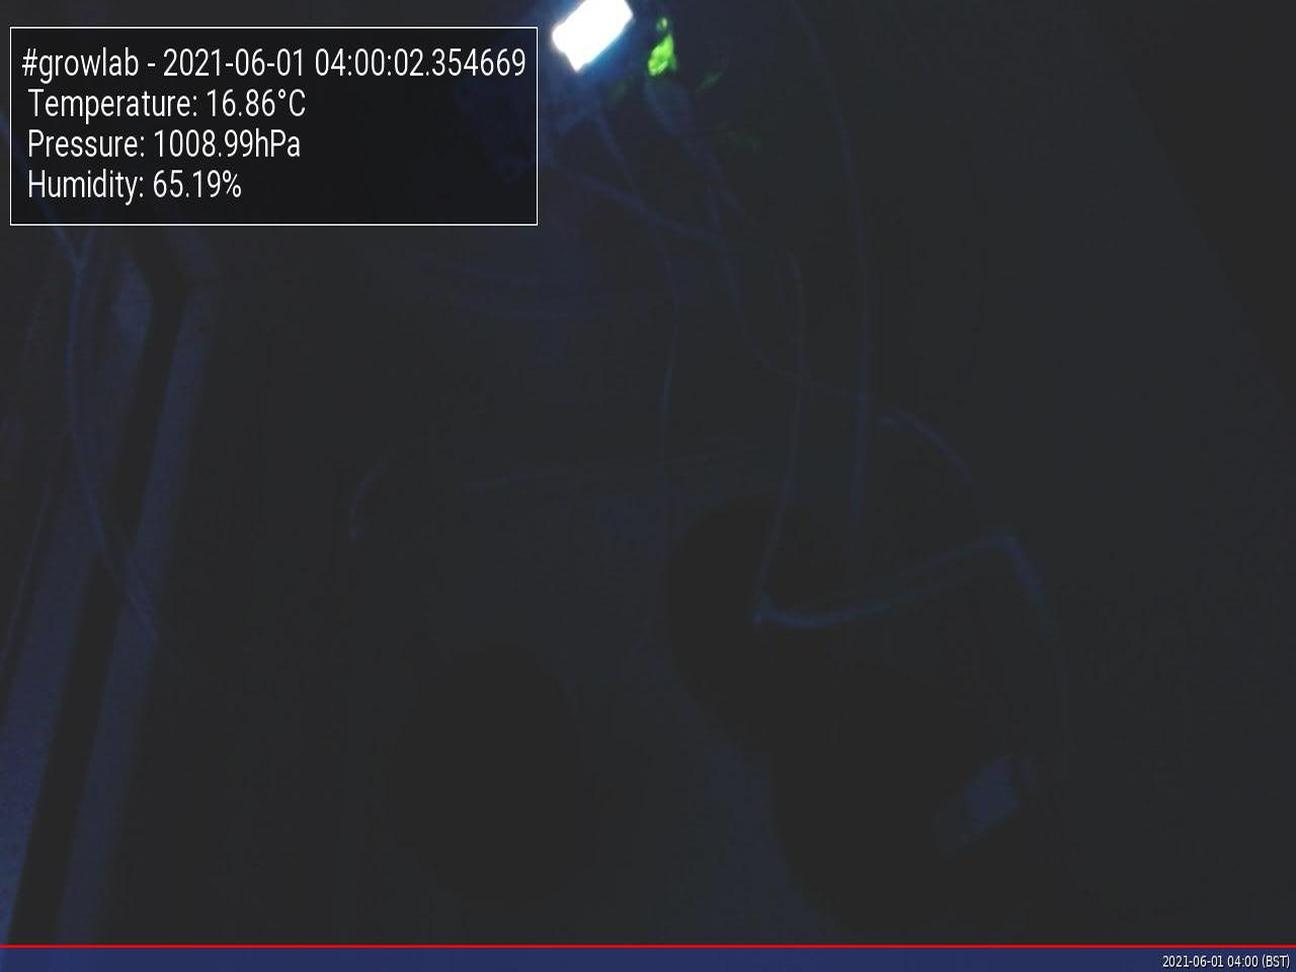
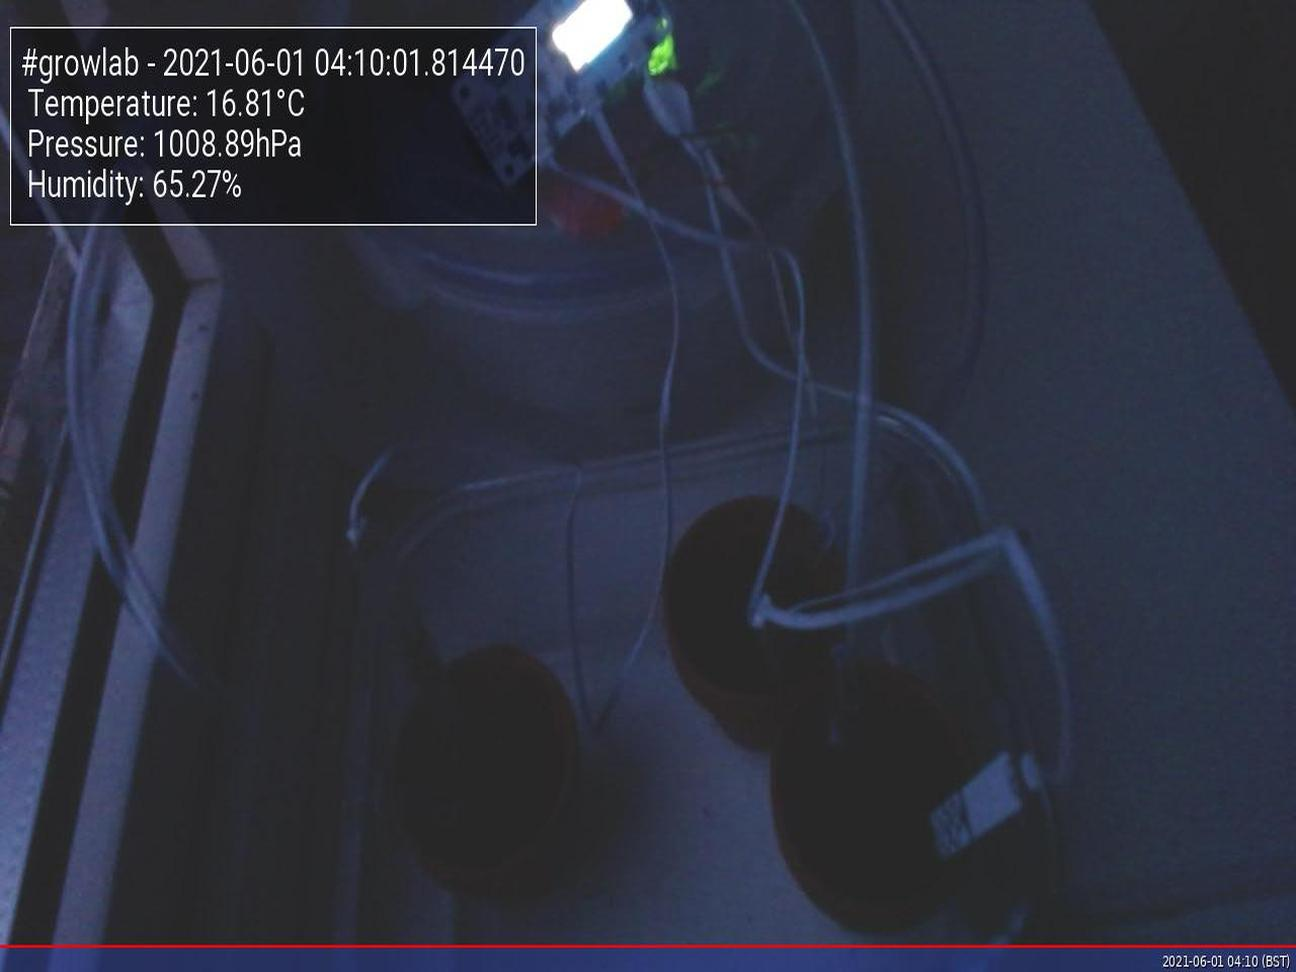
Update images at Tue  1 Jun 04:10:05 BST 2021

diff --git a/app/docs/index.html b/app/docs/index.html
@@ -47,19 +47,19 @@
                         <tbody>
                             <tr>
                                 <td>Time</td>
-                                <td>2021-06-01 04:00:02.354669</td>
+                                <td>2021-06-01 04:10:01.814470</td>
                             </tr>
                             <tr>
                                 <td>Temperature</td>
-                                <td>16.86°C</td>
+                                <td>16.81°C</td>
                             </tr>
                             <tr>
                                 <td>Humidity</td>
-                                <td>65.19%</td>
+                                <td>65.27%</td>
                             </tr>
                             <tr>
                                 <td>Pressure</td>
-                                <td>1008.99hPa</td>
+                                <td>1008.89hPa</td>
                             </tr>
                         </tbody>
                     </table>
@@ -67,7 +67,7 @@
 
                 <h5>Latest image</h5>
                 <div style="width: 85%;">
-                            <img class="figure-img img-fluid rounded" src="./preview.jpg?uid=1622516406.4488208">
+                            <img class="figure-img img-fluid rounded" src="./preview.jpg?uid=1622517005.8569202">
                 </div>
             </div>
         </div>
